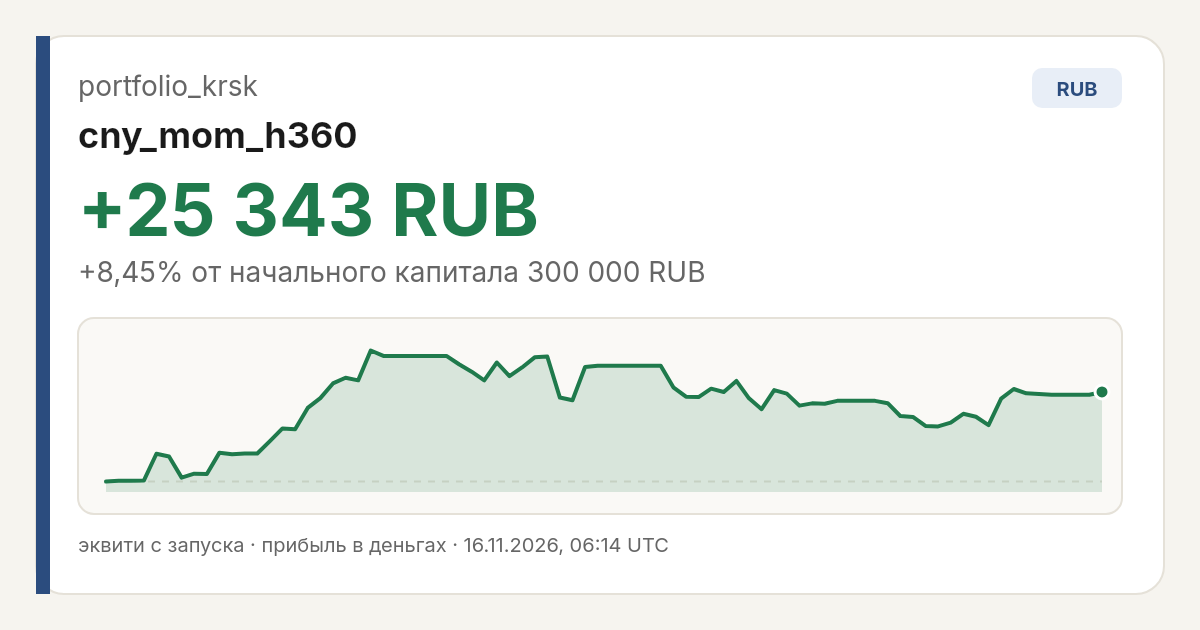
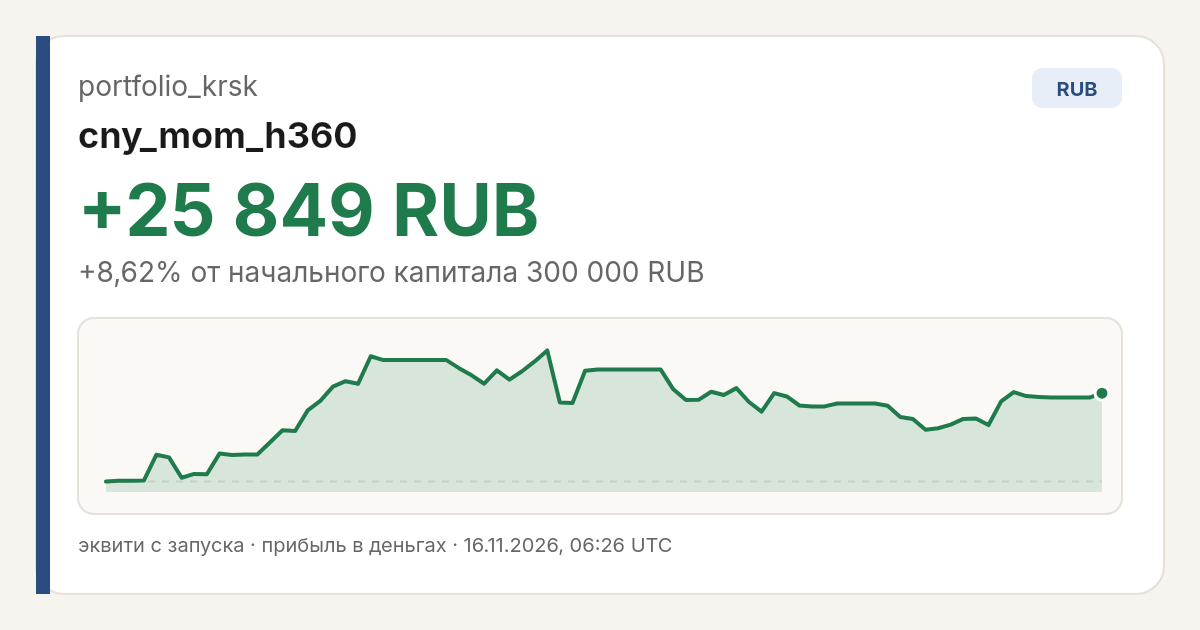
sync equity data 2026-11-16T06:26:24Z

diff --git a/share.html b/share.html
@@ -4,23 +4,23 @@
     <meta charset="UTF-8" />
     <meta name="viewport" content="width=device-width, initial-scale=1.0" />
     <title>portfolio_krsk - cny_mom_h360</title>
-    <meta name="description" content="cny_mom_h360: +25 343 RUB (+8,45%) с запуска. Лидер обложки выбран по доходности в процентах от начального капитала; суммы в разных валютах не сравниваются." />
+    <meta name="description" content="cny_mom_h360: +25 849 RUB (+8,62%) с запуска. Лидер обложки выбран по доходности в процентах от начального капитала; суммы в разных валютах не сравниваются." />
     <meta property="og:title" content="portfolio_krsk - cny_mom_h360" />
-    <meta property="og:description" content="cny_mom_h360: +25 343 RUB (+8,45%) с запуска. Лидер обложки выбран по доходности в процентах от начального капитала; суммы в разных валютах не сравниваются." />
+    <meta property="og:description" content="cny_mom_h360: +25 849 RUB (+8,62%) с запуска. Лидер обложки выбран по доходности в процентах от начального капитала; суммы в разных валютах не сравниваются." />
     <meta property="og:url" content="https://portfolio-krsk.vercel.app/" />
     <meta property="og:site_name" content="portfolio_krsk" />
     <meta property="og:locale" content="ru_RU" />
     <meta property="og:type" content="website" />
-    <meta property="og:image" content="https://varshavskiy1-beep.github.io/portfolio-krsk/og-cover.jpg?v=202611160614" />
-    <meta property="og:image:secure_url" content="https://varshavskiy1-beep.github.io/portfolio-krsk/og-cover.jpg?v=202611160614" />
+    <meta property="og:image" content="https://varshavskiy1-beep.github.io/portfolio-krsk/og-cover.jpg?v=202611160626" />
+    <meta property="og:image:secure_url" content="https://varshavskiy1-beep.github.io/portfolio-krsk/og-cover.jpg?v=202611160626" />
     <meta property="og:image:type" content="image/jpeg" />
     <meta property="og:image:width" content="1200" />
     <meta property="og:image:height" content="630" />
-    <link rel="image_src" href="https://varshavskiy1-beep.github.io/portfolio-krsk/og-cover.jpg?v=202611160614" />
+    <link rel="image_src" href="https://varshavskiy1-beep.github.io/portfolio-krsk/og-cover.jpg?v=202611160626" />
     <meta name="twitter:card" content="summary_large_image" />
     <meta name="twitter:title" content="portfolio_krsk - cny_mom_h360" />
-    <meta name="twitter:description" content="cny_mom_h360: +25 343 RUB (+8,45%) с запуска. Лидер обложки выбран по доходности в процентах от начального капитала; суммы в разных валютах не сравниваются." />
-    <meta name="twitter:image" content="https://varshavskiy1-beep.github.io/portfolio-krsk/og-cover.jpg?v=202611160614" />
+    <meta name="twitter:description" content="cny_mom_h360: +25 849 RUB (+8,62%) с запуска. Лидер обложки выбран по доходности в процентах от начального капитала; суммы в разных валютах не сравниваются." />
+    <meta name="twitter:image" content="https://varshavskiy1-beep.github.io/portfolio-krsk/og-cover.jpg?v=202611160626" />
     <meta http-equiv="refresh" content="0; url=/" />
     <script>location.replace("/")</script>
     <style>
@@ -49,9 +49,9 @@
   </head>
   <body>
     <main>
-      <img src="https://varshavskiy1-beep.github.io/portfolio-krsk/og-cover.jpg?v=202611160614" alt="portfolio_krsk - cny_mom_h360" width="1200" height="630" />
+      <img src="https://varshavskiy1-beep.github.io/portfolio-krsk/og-cover.jpg?v=202611160626" alt="portfolio_krsk - cny_mom_h360" width="1200" height="630" />
       <noscript>
-        <p>cny_mom_h360: +25 343 RUB (+8,45%) с запуска. Лидер обложки выбран по доходности в процентах от начального капитала; суммы в разных валютах не сравниваются.</p>
+        <p>cny_mom_h360: +25 849 RUB (+8,62%) с запуска. Лидер обложки выбран по доходности в процентах от начального капитала; суммы в разных валютах не сравниваются.</p>
         <p><a href="/">Открыть кабинет portfolio_krsk</a></p>
       </noscript>
     </main>
